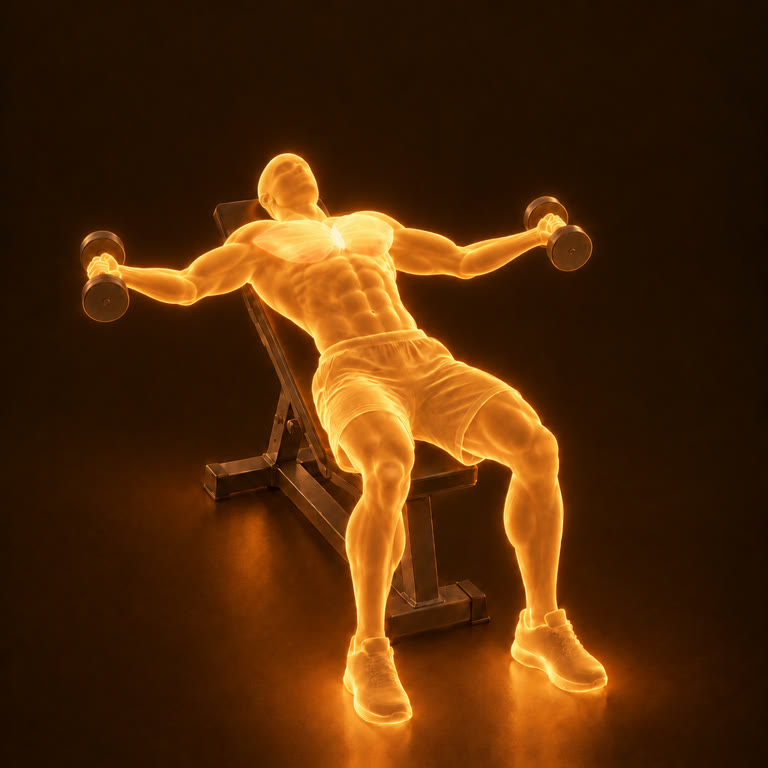
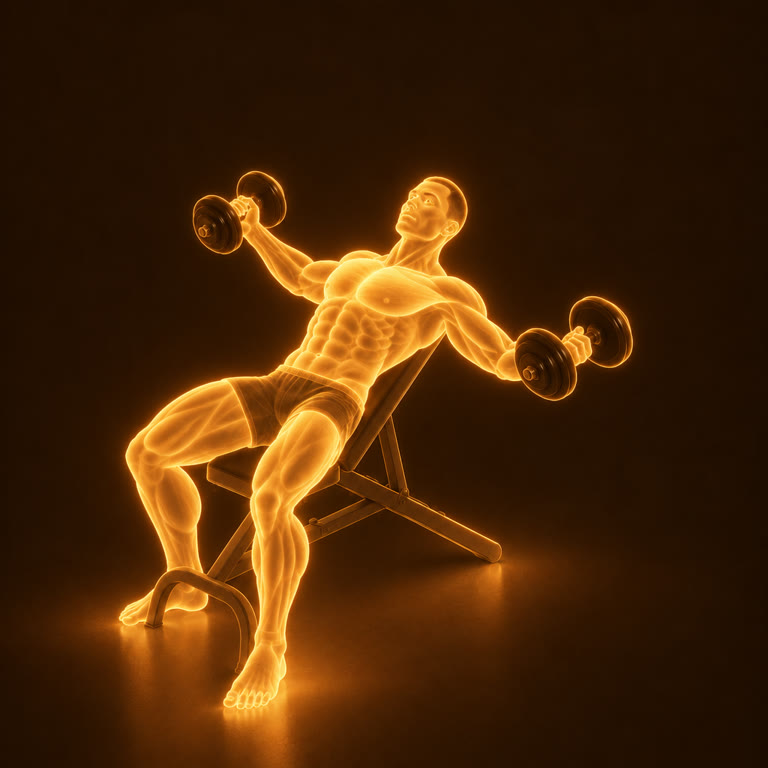
exercise-sheets: x13 redone the agreed way - an exact copy of Asaf's two pictures in the app's style and a GIF between them; marked as waiting for his approval, which the page now shows.

diff --git a/exercise-sheets/index.html b/exercise-sheets/index.html
@@ -29,6 +29,7 @@ article{background:var(--card);border:1px solid var(--line);border-radius:12px;p
 article header{display:flex;flex-wrap:wrap;align-items:baseline;gap:4px 12px}
 article h3{margin:0;font-size:1.2rem}
 .sub{color:var(--soft);font-size:.9rem}
+.pending{color:var(--amber);font-size:.85rem;border:1px solid var(--amber);border-radius:999px;padding:0 10px}
 .anim{width:100%;max-width:540px;aspect-ratio:1;margin-inline:auto;display:block;border-radius:8px;background:#000}
 .frames{display:grid;grid-template-columns:repeat(2,minmax(0,1fr));gap:8px}
 .frames figure{margin:0;display:grid;gap:4px}
@@ -53,7 +54,7 @@ li a{color:inherit}
   <p class="lead">לכל תרגיל: שתי תמונות בעיצוב שלנו, ואנימציה שעוברת ביניהן.</p>
   <div class="count"><div id="count" class="lead"></div><div class="bar"><i id="bar" style="width:0"></i></div></div>
 </header>
-<section style="display:grid;gap:14px"><h2>מוכנים</h2><div id="feed" class="feed"><p class="lead">טוען…</p></div></section>
+<section style="display:grid;gap:14px"><h2>תרגילים</h2><div id="feed" class="feed"><p class="lead">טוען…</p></div></section>
 <section style="display:grid;gap:10px">
   <h2>צ'ק ליסט</h2>
   <div class="legend"><span>✓ מוכן</span><span>◐ פריימים מחכים לאישור</span><span>○ מחכה לתמונות</span></div>
@@ -72,12 +73,14 @@ Promise.all([get('../data/exercises.json'), get('progress.json')]).then(([lib, p
   document.getElementById('bar').style.width = (100 * done.length / ex.length) + '%';
   /* the files carry the date they were made, so a remade GIF is never served from an old cache */
   const f = (p, n) => `${p.dir}/${n}?v=${encodeURIComponent(p.date || '')}`;
-  document.getElementById('feed').innerHTML = done.length ? done.map((e) => { const p = prog[e.id];
-    return `<article id="${esc(e.id)}"><header><h3>${esc(e.n)}</h3><span class="sub">${esc(e.en)} · ${esc(e.id)}</span></header>
+  /* an exercise whose GIF waits for Asaf's approval is shown too, marked, so he can approve it here */
+  const shown = ex.filter((e) => st(e) !== 'waiting');
+  document.getElementById('feed').innerHTML = shown.length ? shown.map((e) => { const p = prog[e.id];
+    return `<article id="${esc(e.id)}"><header><h3>${esc(e.n)}</h3><span class="sub">${esc(e.en)} · ${esc(e.id)}</span>${st(e) === 'frames' ? '<span class="pending">מחכה לאישור שלך</span>' : ''}</header>
       <img class="anim" src="${esc(f(p, 'anim.gif'))}" alt="${esc(e.n)}" loading="lazy">
       <div class="frames"><figure><img src="${esc(f(p, 'start.jpg'))}" alt="התחלה" loading="lazy"><figcaption>התחלה</figcaption></figure>
       <figure><img src="${esc(f(p, 'end.jpg'))}" alt="סוף" loading="lazy"><figcaption>סוף</figcaption></figure></div></article>`; }).join('')
-    : '<p class="lead">עוד אין תרגיל מוכן.</p>';
+    : '<p class="lead">עוד אין תרגיל.</p>';
   /* grouped by the exercise's first muscle, in the library's own order */
   const groups = new Map();
   for (const e of ex) { const g = (e.m && e.m[0]) || 'אחר'; if (!groups.has(g)) groups.set(g, []); groups.get(g).push(e); }
